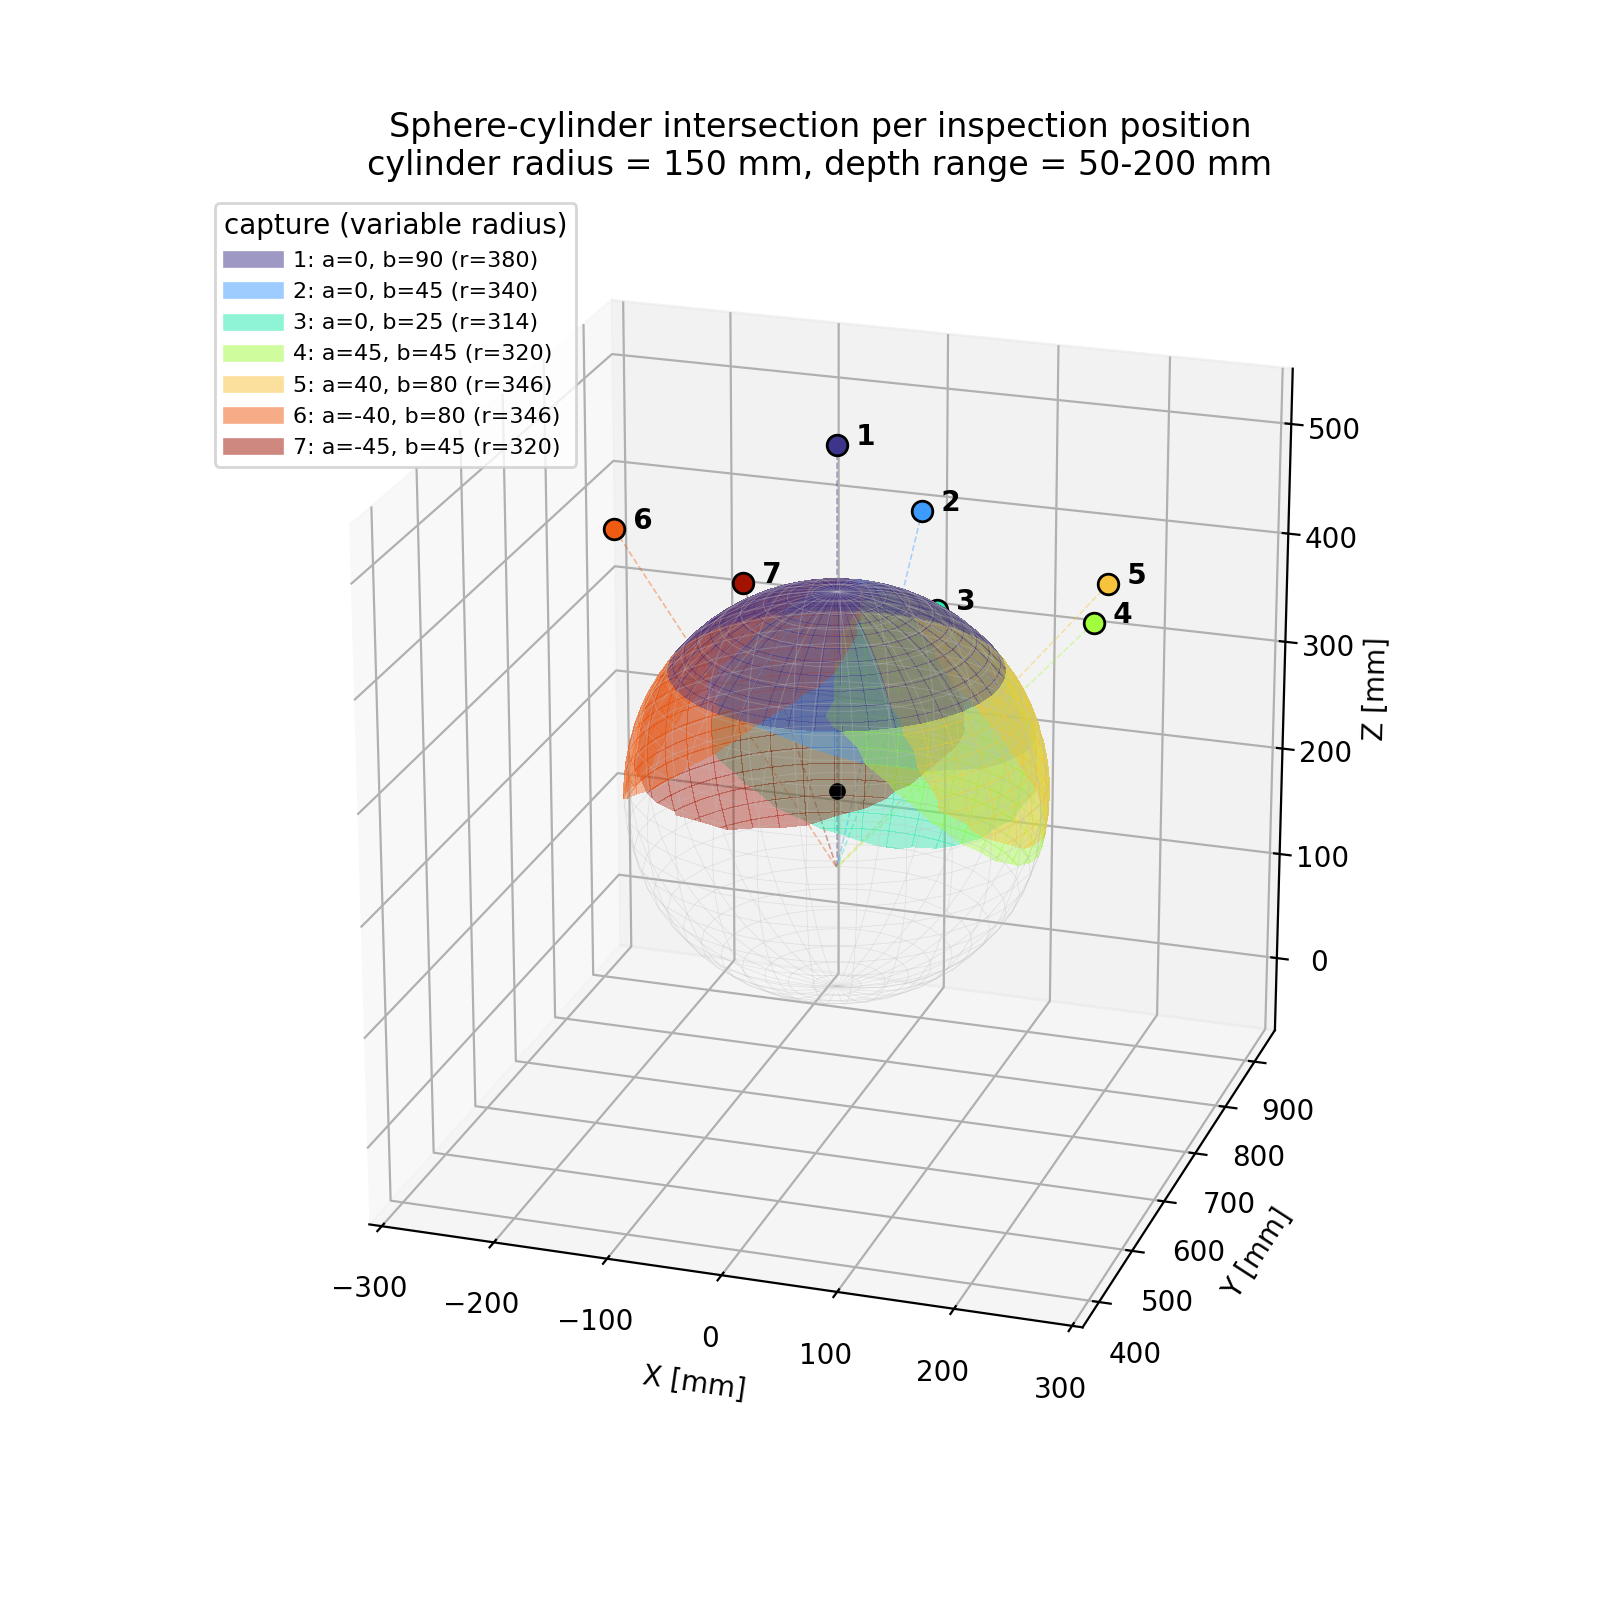
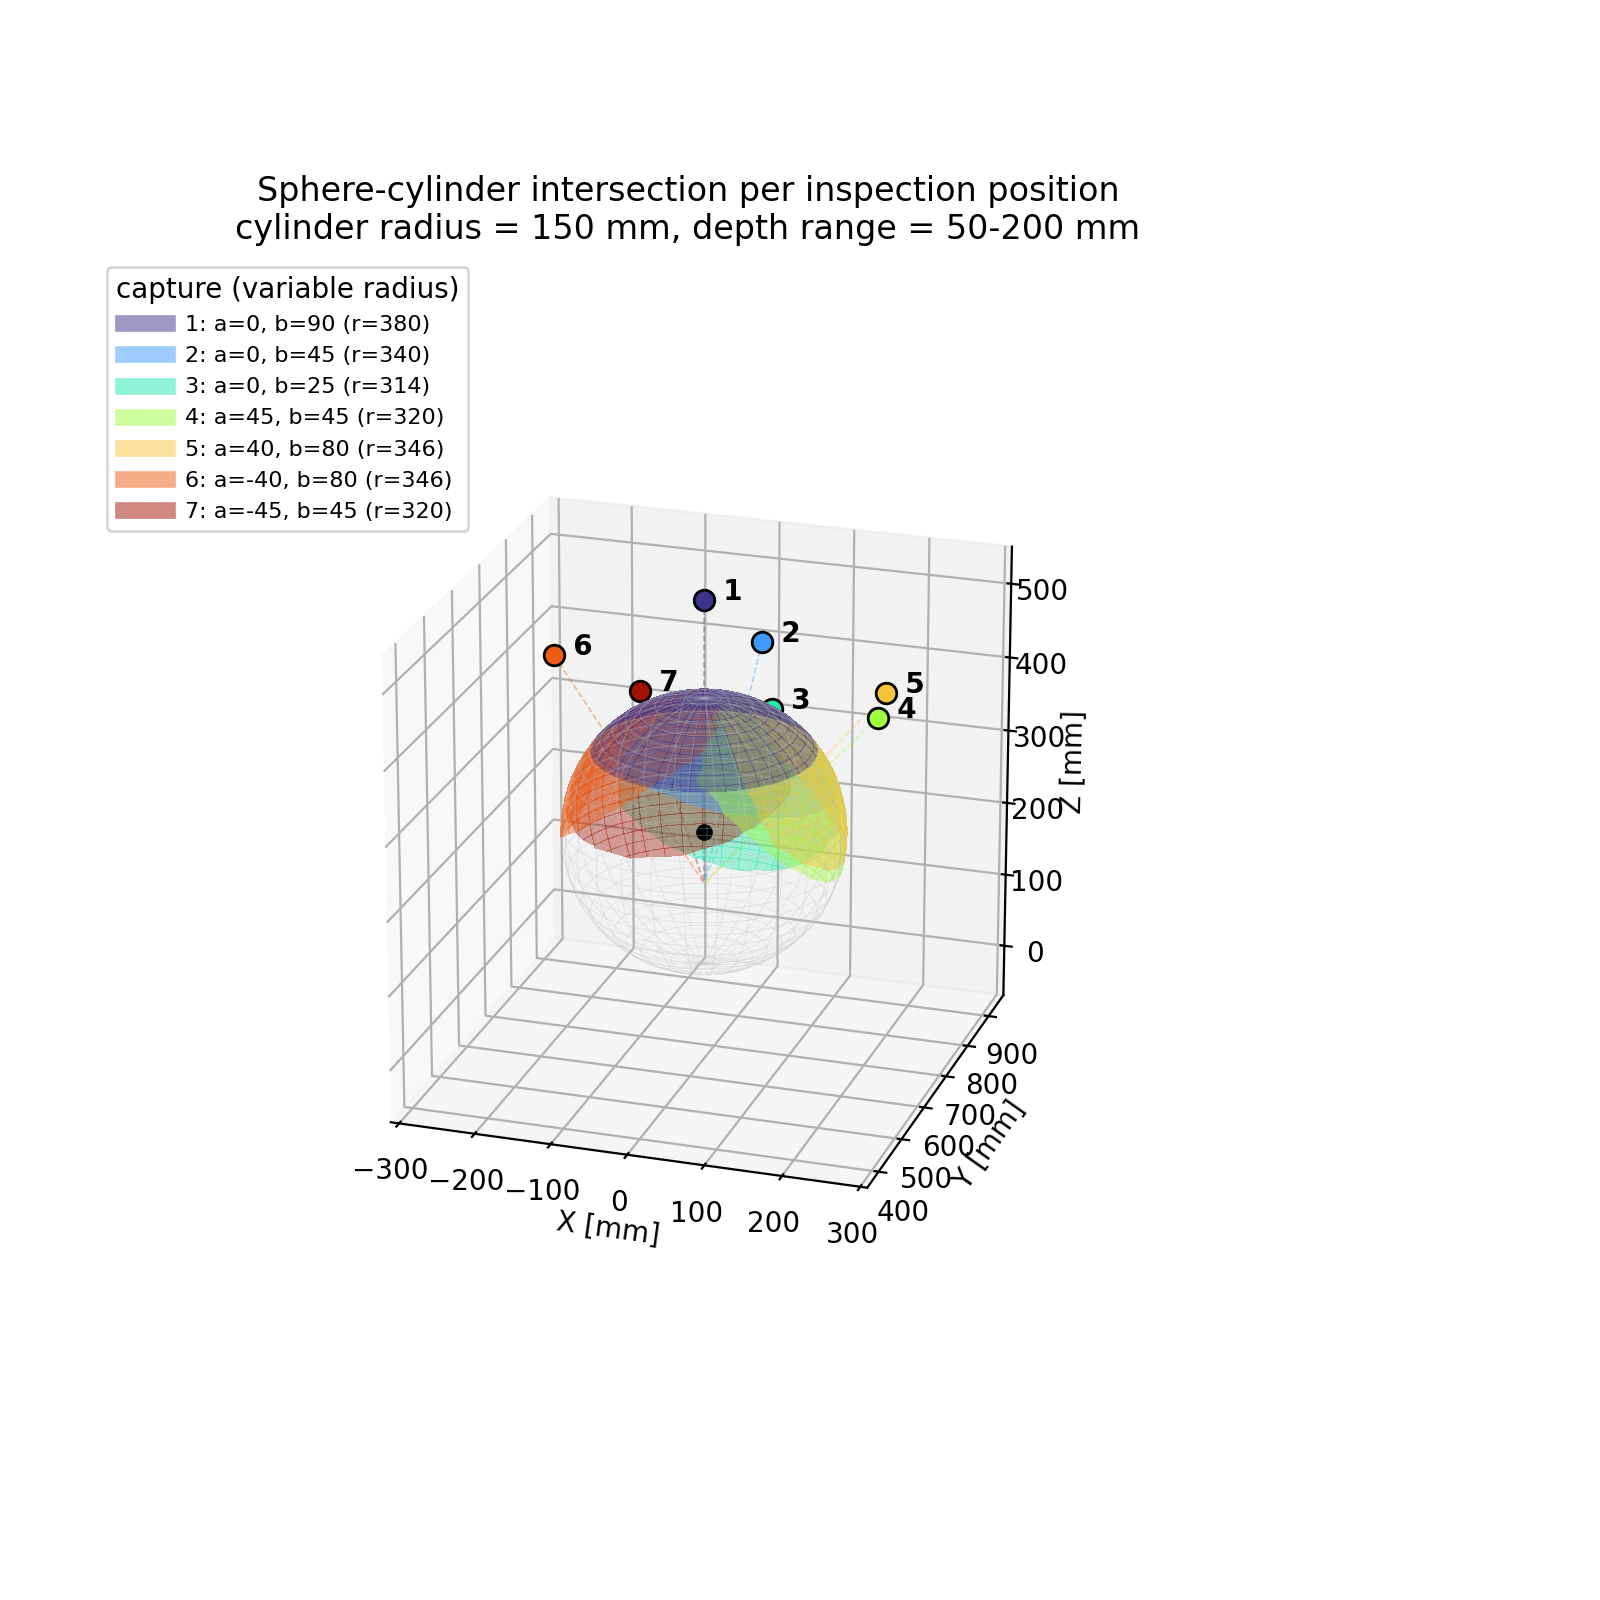
plot sistemati

diff --git a/slides_plots.py b/slides_plots.py
@@ -40,13 +40,20 @@ INSPECTION_POSITIONS = [
     [INSPECTION_RADIUS, -45, 45],   # left side
 ]
 
-# Real unique defects from the PHASE2 notebook run: (pos3d_global, area).
-REAL_DEFECTS = [
+# Real raw detections from the PHASE2 notebook run, BEFORE duplicate_filter
+# (5 detections, "Difetti totali prima del filtro duplicati"): (pos3d_global, area).
+# The 2nd and 5th entries are the real near-duplicate pair (~8.8 mm apart);
+# duplicate_filter keeps the 5th (larger area, perpendicular shot).
+RAW_DETECTIONS = [
     ([43.1, 677.8, 387.7], 1529.0),
-    ([-81.2, 706.9, 364.8], 3349.0),
+    ([-72.7, 704.8, 364.9], 1482.5),
     ([52.0, 829.0, 205.1], 1088.5),
     ([109.6, 729.9, 326.3], 1610.5),
+    ([-81.2, 706.9, 364.8], 3349.0),
 ]
+
+# Unique defect #3 of the real run (area 1088.5) is excluded from this slide.
+EXCLUDED_POS = np.array([52.0, 829.0, 205.1])
 
 # Helmet approximated as a sphere: radius 180 mm, centre 70 mm above
 # HELMET_CENTER_GLOBAL (the apex, beta=90, lies along +Z in this convention).
@@ -57,9 +64,10 @@ HELMET_SPHERE_CENTER = HC + np.array([0.0, 0.0, 70.0])
 # ----------------------------------------------------------------------
 # Geometry helpers
 # ----------------------------------------------------------------------
-def sphere_surface(center, radius, n=30):
+def sphere_surface(center, radius, n=30, upper_only=False):
     u = np.linspace(0, 2 * np.pi, n)
-    v = np.linspace(0, np.pi, n)
+    # upper_only -> polar angle 0..pi/2 gives just the top hemisphere (z>=center)
+    v = np.linspace(0, np.pi / 2 if upper_only else np.pi, n)
     x = center[0] + radius * np.outer(np.cos(u), np.sin(v))
     y = center[1] + radius * np.outer(np.sin(u), np.sin(v))
     z = center[2] + radius * np.outer(np.ones_like(u), np.cos(v))
@@ -81,7 +89,7 @@ def cylinder_mask(X, Y, Z, p_start, axis_dir, r_min, r_max, radius):
     return (depth >= r_min) & (depth <= r_max) & (lateral <= radius)
 
 
-def set_equal_3d(ax, pts, center=None):
+def set_equal_3d(ax, pts, center=None, zoom=0.82):
     pts = np.asarray(pts)
     # Centre the view on `center` (the helmet) if given, else on the points.
     c = np.asarray(center, float) if center is not None else pts.mean(axis=0)
@@ -90,7 +98,9 @@ def set_equal_3d(ax, pts, center=None):
     ax.set_xlim(c[0] - span, c[0] + span)
     ax.set_ylim(c[1] - span, c[1] + span)
     ax.set_zlim(c[2] - span, c[2] + span)
-    ax.set_box_aspect((1, 1, 1))  # equal scale on all axes -> 1:1:1
+    # zoom < 1 shrinks the whole 3D rendering within the axes region, leaving
+    # room for the tick labels so they aren't clipped while the view rotates.
+    ax.set_box_aspect((1, 1, 1), zoom=zoom)  # equal scale on all axes -> 1:1:1
     ax.set_xlabel("X [mm]"); ax.set_ylabel("Y [mm]"); ax.set_zlabel("Z [mm]")
 
 
@@ -155,7 +165,9 @@ def draw_cylinder_scene(ax):
     )
     ax.legend(loc="upper left", fontsize=8,
               title="capture (variable radius)")
-    set_equal_3d(ax, all_pts, center=HELMET_SPHERE_CENTER)
+    # Wider scene (cameras 1-7 spread far out) -> zoom out more so the tick
+    # labels stay inside the frame all the way through the rotation.
+    set_equal_3d(ax, all_pts, center=HELMET_SPHERE_CENTER, zoom=0.7)
 
 
 # ----------------------------------------------------------------------
@@ -169,22 +181,25 @@ class FakeDefect:
 
 
 def draw_duplicate_scene(ax):
-    # Start from the 4 real unique defects of the notebook run, then add one
-    # near-duplicate (within DUPLICATE_DISTANCE) so the 5 -> 4 merge of the
-    # real run is reproduced. The duplicate has a smaller area than its twin,
-    # so duplicate_filter keeps the real (larger-area) detection.
-    detections = [FakeDefect(p, a) for p, a in REAL_DEFECTS]
-    twin = detections[1]                       # largest area defect (3349)
-    dup_pos = twin.pos3d_global + np.array([6.0, -5.0, 7.0])  # ~10.5 mm away
-    detections.insert(2, FakeDefect(dup_pos, area=twin.area * 0.4))
+    # The 5 real raw detections of the notebook run, fed through the real
+    # duplicate_filter exactly as PHASE2 does (5 -> 4 unique).
+    detections = [FakeDefect(p, a) for p, a in RAW_DETECTIONS]
 
     unique = duplicate_filter(detections, distance_threshold=DUPLICATE_DISTANCE)
     unique_ids = {id(u) for u in unique}
 
-    kept = np.array([d.pos3d_global for d in detections if id(d) in unique_ids])
-    removed = np.array([d.pos3d_global for d in detections if id(d) not in unique_ids])
+    # Unique defect 3 of the real run (area 1088.5) is left out of this slide.
+    def shown(d):
+        return not np.allclose(d.pos3d_global, EXCLUDED_POS)
 
-    sx, sy, sz = sphere_surface(HELMET_SPHERE_CENTER, HELMET_SPHERE_RADIUS, n=24)
+    kept = np.array([d.pos3d_global for d in detections
+                      if id(d) in unique_ids and shown(d)])
+    removed = np.array([d.pos3d_global for d in detections
+                         if id(d) not in unique_ids and shown(d)])
+
+    # Only the top hemisphere of the dome, so the defect cluster is seen closer.
+    sx, sy, sz = sphere_surface(HELMET_SPHERE_CENTER, HELMET_SPHERE_RADIUS,
+                                n=24, upper_only=True)
     ax.plot_wireframe(sx, sy, sz, color="0.7", linewidth=0.3, alpha=0.35)
 
     # Merge sphere (radius = DUPLICATE_DISTANCE) only around the kept defects:
@@ -216,28 +231,41 @@ def draw_duplicate_scene(ax):
         f"({len(detections)} detections -> {len(unique)} unique)"
     )
     ax.legend(loc="upper right")
-    pts = np.vstack([[d.pos3d_global for d in detections],
-                     HELMET_SPHERE_CENTER + HELMET_SPHERE_RADIUS,
-                     HELMET_SPHERE_CENTER - HELMET_SPHERE_RADIUS])
-    set_equal_3d(ax, pts, center=HELMET_SPHERE_CENTER)
+    # Frame tightly on the defect cluster (with their merge spheres) instead of
+    # the whole dome, so the view sits close to the defects. The dome wireframe
+    # beyond this box is just context and may run off-frame.
+    cluster = np.vstack([kept, removed]) if len(removed) else kept
+    pts = np.vstack([cluster + DUPLICATE_DISTANCE, cluster - DUPLICATE_DISTANCE])
+    set_equal_3d(ax, pts, center=(pts.min(axis=0) + pts.max(axis=0)) / 2)
 
 
 # ----------------------------------------------------------------------
 # Rendering: transparent PNG + rotating transparent GIF
 # ----------------------------------------------------------------------
-def _rgba_to_transparent_p(im):
-    """Convert an RGBA frame to a paletted image with a transparent index,
-    so the GIF keeps a see-through background while rotating."""
+def _rgba_to_transparent_p(im, matte=(255, 255, 255)):
+    """Convert an RGBA frame to a paletted image with a transparent index, so
+    the GIF keeps a see-through background while rotating.
+
+    A GIF has only 1-bit alpha, so every pixel is either fully opaque or fully
+    transparent. The previous version binarised on `alpha <= 128`, which erased
+    every anti-aliased pixel below that cutoff -- i.e. most of the thin tick
+    labels and the translucent surfaces -- so numbers looked chopped up in the
+    GIF even though each frame was fine. Instead flatten the frame onto a solid
+    matte (keeps anti-aliased text/edges crisp) and turn ONLY the genuinely
+    empty background (alpha ~ 0) transparent."""
     from PIL import Image
     alpha = im.getchannel("A")
-    p = im.convert("RGB").convert("P", palette=Image.ADAPTIVE, colors=255)
-    # fully/mostly transparent pixels -> reserved palette index 255
-    mask = alpha.point(lambda a: 255 if a <= 128 else 0)
+    bg = Image.new("RGBA", im.size, tuple(matte) + (255,))
+    flat = Image.alpha_composite(bg, im).convert("RGB")
+    p = flat.convert("P", palette=Image.ADAPTIVE, colors=255)
+    # only near-zero alpha (true background) -> reserved transparent index 255
+    mask = alpha.point(lambda a: 255 if a < 8 else 0)
     p.paste(255, mask)
     return p
 
 
-def render_scene(draw_fn, name, elev=20, n_frames=120, duration=110, dpi=130):
+def render_scene(draw_fn, name, elev=20, n_frames=120, duration=110, dpi=130,
+                 box=(0.06, 0.10, 0.74, 0.74)):
     """Draw the scene once, save a transparent PNG, then spin the azimuth
     360 deg and save a transparent rotating GIF."""
     import io
@@ -248,6 +276,11 @@ def render_scene(draw_fn, name, elev=20, n_frames=120, duration=110, dpi=130):
     ax = fig.add_subplot(111, projection="3d")
     ax.set_facecolor("none")                      # transparent axes panel
     draw_fn(ax)
+    # Place the axes within the figure leaving padding all around: as the view
+    # spins the cube and its tick/axis labels sweep outwards, and a full-bleed
+    # axes would clip them at the frame edge. The box is shifted slightly left
+    # to counter the rightward bias of the projection at azim=0.
+    ax.set_position(list(box))
 
     # static PNG (transparent)
     ax.view_init(elev=elev, azim=-72)

diff --git a/slides_workflow.md b/slides_workflow.md
@@ -1,7 +1,59 @@
+# Dependency diagram
+
+```mermaid
+%%{init: {"theme":"base","flowchart":{"htmlLabels":true,"curve":"linear"},"themeVariables":{"fontFamily":"Consolas, monospace","fontSize":"15px","lineColor":"#808080","background":"#ffffff","clusterBkg":"#ececec","clusterBorder":"#b0b0b0","edgeLabelBackground":"#ffffff"}} }%%
+flowchart LR
+    %% Base modules (left)
+    subgraph Base["Base modules"]
+        direction TB
+        vars["Variables.py"]:::step
+        rc["robot_control.py"]:::main
+        kin["kinematics_v2.py"]:::step
+        cam["camera_scripts_v2.py"]:::step
+    end
+
+    %% Higher-level modules (center)
+    subgraph High["Higher-level modules"]
+        direction TB
+        sph["spherical_movement.py"]:::main
+        defects["defects_id_wrapper.py"]:::step
+        im["inspection_and_marking.py"]:::main
+    end
+
+    %% Notebooks (right)
+    subgraph NB["Notebooks"]
+        direction TB
+        nb_together["PHASE2_inspection_marking_together.ipynb"]:::main
+        nb_open["PHASE1_opening.ipynb"]:::main
+    end
+
+    rc -->|RobotController| sph
+    rc -->|RobotController| nb_together
+    rc -->|RobotController| nb_open
+
+    kin -->|"create_homogeneous_matrix<br/>homogeneous_trasform<br/>to_helmet_angles"| defects
+    kin -->|"to_helmet_coordinates<br/>to_helmet_angles<br/>compute_ee_pose_for_tool_target"| im
+    kin -->|"to_helmet_coordinates<br/>to_helmet_angles<br/>compute_ee_pose_for_tool_target"| sph
+
+    cam -->|take_defects_local| defects
+
+    vars -->|"HELMET_CENTER_GLOBAL<br/>CAMERA_POSE_EE<br/>MARKER_POSE_EE"| im
+    defects -->|"take_defects_global<br/>duplicate_filter"| im
+    sph -->|"move_circle_spherical<br/>variable_helmet_radius"| im
+
+    im -->|"point_and_shoot<br/>refine_defect_position<br/>mark_defect<br/>move_to_hub"| nb_together
+    vars -->|EE_POSES| nb_open
+
+    classDef step fill:#1a1a1a,stroke:#000000,stroke-width:1.5px,color:#ffffff;
+    classDef dec fill:#ffffff,stroke:#808080,stroke-width:1.5px,color:#1a1a1a,stroke-dasharray:5 3;
+    classDef fail fill:#f9e3e0,stroke:#c0392b,stroke-width:1.5px,color:#c0392b;
+    classDef main fill:#21b357,stroke:#179a48,stroke-width:2px,color:#ffffff;
+```
+
 # Workflow — inspection_and_marking.py
 
 ```mermaid
-%%{init: {"flowchart": {"htmlLabels": true, "curve": "linear"}, "themeVariables": {"fontSize": "14px"}} }%%
+%%{init: {"theme":"base","flowchart":{"htmlLabels":true,"curve":"linear"},"themeVariables":{"fontFamily":"Consolas, monospace","fontSize":"15px","lineColor":"#808080","background":"#ffffff","clusterBkg":"#ececec","clusterBorder":"#b0b0b0","edgeLabelBackground":"#ffffff"}} }%%
 flowchart LR
 
     START["START<br/>INSPECTION_POSITIONS"]:::main
@@ -19,8 +71,7 @@ flowchart LR
     %% ---------- PHASE 2: refine_defect_position ----------
     subgraph RF["PHASE 2 · refine_defect_position (per defect)"]
         direction LR
-        RF_SPH{"sph_coord<br/>present?"}:::dec
-        RF_MOVE["move_circle_spherical<br/>to close_radius"]:::step
+        RF_MOVE["move_circle_spherical<br/>(d.sph_coord, CAMERA_POSE_EE)"]:::step
         RF_SHOTS["N_CLOSE_SHOTS shots<br/>match + average positions"]:::step
         RF_COUNT{"valid > 8 /<br/>N_CLOSE_SHOTS?"}:::dec
         RF_UPD["update pos3d_global<br/>and sph_coord"]:::step
@@ -29,8 +80,8 @@ flowchart LR
     %% ---------- PHASE 3: mark_defect ----------
     subgraph MK["PHASE 3 · mark_defect (per defect)"]
         direction LR
-        MK_POS{"pos3d_global<br/>and sph_coord?"}:::dec
-        MK_MOVE["move_circle_spherical<br/>toward defect"]:::step
+        MK_MOVE["move_circle_spherical<br/>(d.sph_coord, CAMERA_POSE_EE)"]:::step
+        MK_POSE["compute_ee_pose_for_tool_target<br/>marker + approach (MARKER_POSE_EE)"]:::step
         MK_APP["move_ptp<br/>approach point"]:::step
         MK_TOUCH["move_line<br/>touch defect"]:::step
         MK_BACK["move_line retract<br/>+ move_ptp return"]:::step
@@ -39,36 +90,64 @@ flowchart LR
     DONE["DEFECT MARKED"]:::main
 
     %% ---------- FAIL nodes ----------
-    F_PS["SKIP<br/>capture position<br/>unreachable"]:::fail
-    F_RF_SPH["SKIP<br/>defect without sph_coord"]:::fail
-    F_RF_MOVE["SKIP<br/>close-up position<br/>unreachable"]:::fail
+    F_PS["SKIP<br/>unsafe position"]:::fail
+    F_RF_MOVE["SKIP<br/>unsafe position"]:::fail
     F_RF_COUNT["DISCARDED<br/>confidence below threshold"]:::fail
-    F_MK_POS["SKIP<br/>missing coordinates"]:::fail
-    F_MK_MOVE["SKIP<br/>mark position<br/>unreachable"]:::fail
+    F_MK_MOVE["SKIP<br/>unsafe position"]:::fail
 
     %% ---------- main flow ----------
     START --> PS_MOVE
     PS_MOVE -->|ok| PS_OK --> PS_DRAW
     PS_MOVE -->|fail| F_PS
-    PS_DRAW --> DUP --> RF_SPH
+    PS_DRAW --> DUP --> RF_MOVE
 
-    RF_SPH -->|yes| RF_MOVE
-    RF_SPH -->|no| F_RF_SPH
     RF_MOVE -->|ok| RF_SHOTS
     RF_MOVE -->|fail| F_RF_MOVE
     RF_SHOTS --> RF_COUNT
     RF_COUNT -->|yes| RF_UPD
     RF_COUNT -->|no| F_RF_COUNT
 
-    RF_UPD --> MK_POS
-    MK_POS -->|yes| MK_MOVE
-    MK_POS -->|no| F_MK_POS
-    MK_MOVE -->|ok| MK_APP
+    RF_UPD --> MK_MOVE
+    MK_MOVE -->|ok| MK_POSE
     MK_MOVE -->|fail| F_MK_MOVE
-    MK_APP --> MK_TOUCH --> MK_BACK --> DONE
+    MK_POSE --> MK_APP --> MK_TOUCH --> MK_BACK --> DONE
 
-    classDef step fill:#e8eef7,stroke:#2c3e50,stroke-width:1px,color:#1a1a1a,rx:0,ry:0;
-    classDef dec fill:#fff3cd,stroke:#b8860b,stroke-width:1px,color:#1a1a1a,rx:0,ry:0;
-    classDef fail fill:#f8d7da,stroke:#a94442,stroke-width:1px,color:#1a1a1a,rx:0,ry:0;
-    classDef main fill:#d4edda,stroke:#1e7e34,stroke-width:2px,color:#1a1a1a,rx:0,ry:0;
+    classDef step fill:#1a1a1a,stroke:#000000,stroke-width:1.5px,color:#ffffff;
+    classDef dec fill:#ffffff,stroke:#808080,stroke-width:1.5px,color:#1a1a1a,stroke-dasharray:5 3;
+    classDef fail fill:#f9e3e0,stroke:#c0392b,stroke-width:1.5px,color:#c0392b;
+    classDef main fill:#21b357,stroke:#179a48,stroke-width:2px,color:#ffffff;
+```
+
+## Refine defect — refine_defect_position
+
+```mermaid
+%%{init: {"theme":"base","flowchart":{"htmlLabels":true,"curve":"linear"},"themeVariables":{"fontFamily":"Consolas, monospace","fontSize":"15px","lineColor":"#808080","background":"#ffffff","clusterBkg":"#ececec","clusterBorder":"#b0b0b0","edgeLabelBackground":"#ffffff"}} }%%
+flowchart LR
+    A["Estimated defect"]:::main --> B["move_circle_spherical<br/>(d.sph_coord, CAMERA_POSE_EE)"]:::step
+    B -->|fail| FM["SKIP<br/>unsafe position"]:::fail
+    B -->|ok| C["take_defects_global × N<br/>+ match nearest"]:::step
+    C --> D{"valid > 8?"}:::dec
+    D -->|no| FD["DISCARDED"]:::fail
+    D -->|yes| E["average → update 3D"]:::main
+
+    classDef step fill:#1a1a1a,stroke:#000000,stroke-width:1.5px,color:#ffffff;
+    classDef dec fill:#ffffff,stroke:#808080,stroke-width:1.5px,color:#1a1a1a,stroke-dasharray:5 3;
+    classDef fail fill:#f9e3e0,stroke:#c0392b,stroke-width:1.5px,color:#c0392b;
+    classDef main fill:#21b357,stroke:#179a48,stroke-width:2px,color:#ffffff;
+```
+
+## Mark defect — mark_defect
+
+```mermaid
+%%{init: {"theme":"base","flowchart":{"htmlLabels":true,"curve":"linear"},"themeVariables":{"fontFamily":"Consolas, monospace","fontSize":"15px","lineColor":"#808080","background":"#ffffff","clusterBkg":"#ececec","clusterBorder":"#b0b0b0","edgeLabelBackground":"#ffffff"}} }%%
+flowchart LR
+    A["Refined defect"]:::main --> B["move_circle_spherical<br/>(d.sph_coord, CAMERA_POSE_EE)"]:::step
+    B -->|fail| FM["SKIP<br/>unsafe position"]:::fail
+    B -->|ok| C["compute_ee_pose_for_tool_target<br/>(MARKER_POSE_EE)"]:::step
+    C --> D["move_ptp approach → move_line touch<br/>→ move_line retract → move_ptp return"]:::main
+
+    classDef step fill:#1a1a1a,stroke:#000000,stroke-width:1.5px,color:#ffffff;
+    classDef dec fill:#ffffff,stroke:#808080,stroke-width:1.5px,color:#1a1a1a,stroke-dasharray:5 3;
+    classDef fail fill:#f9e3e0,stroke:#c0392b,stroke-width:1.5px,color:#c0392b;
+    classDef main fill:#21b357,stroke:#179a48,stroke-width:2px,color:#ffffff;
 ```
